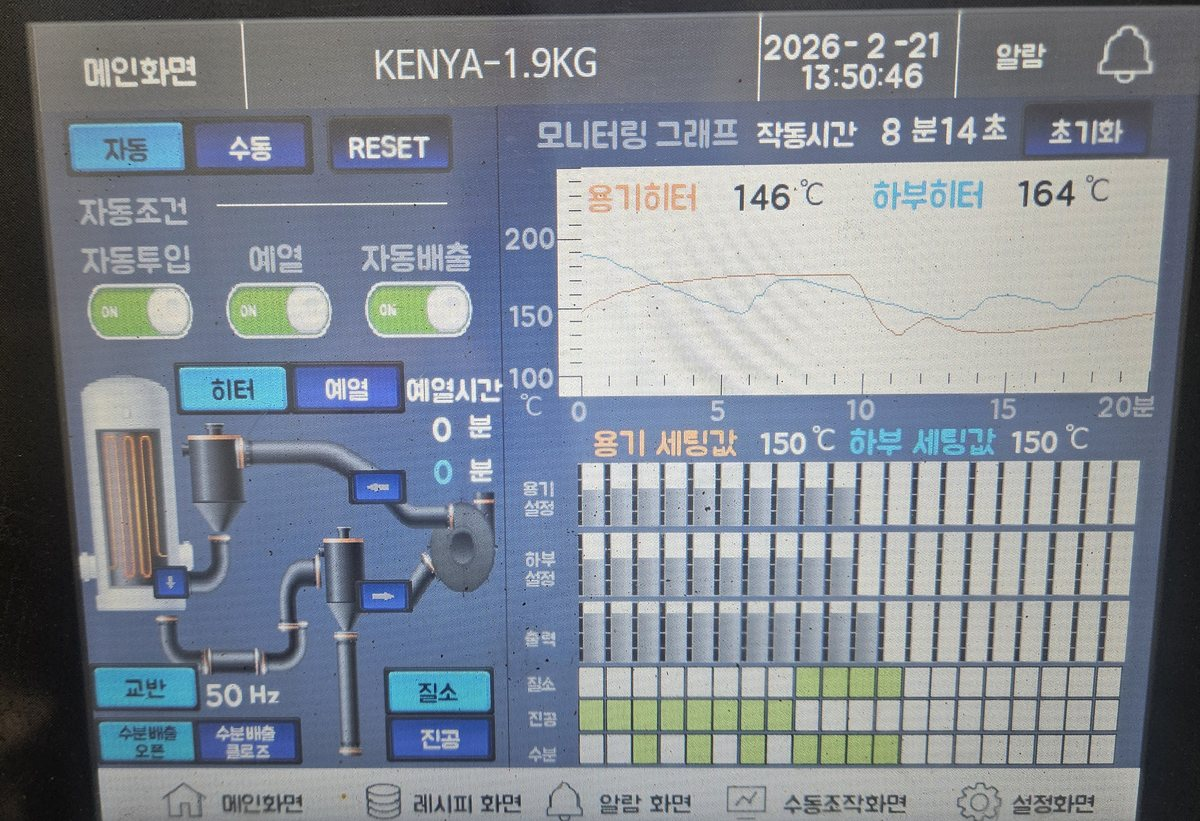
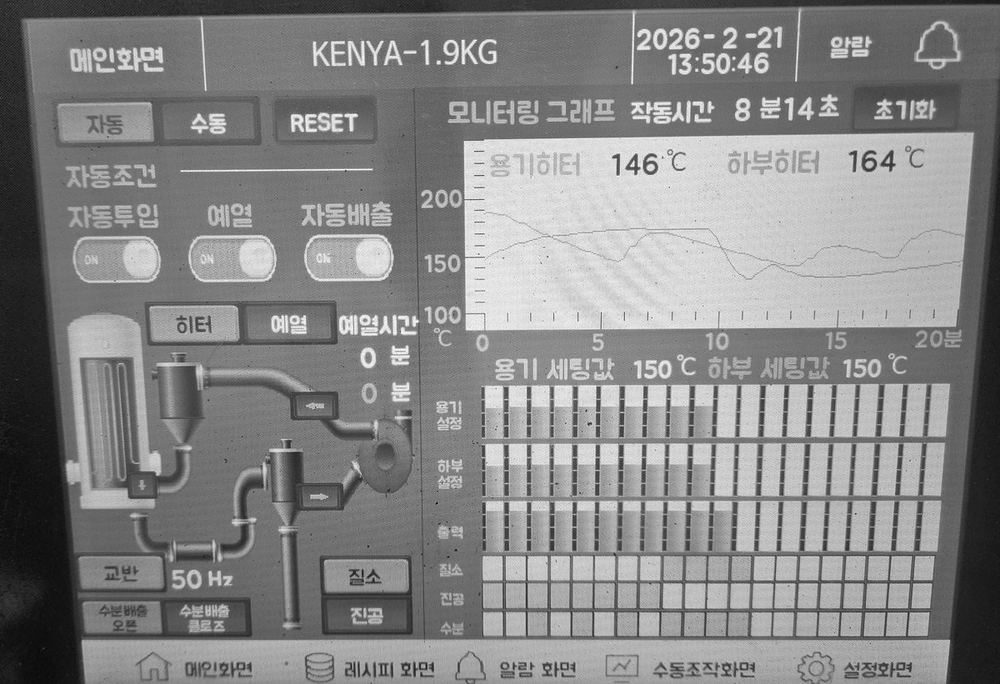
최적화: 웹폰트 축소(한글 본문=OS 폰트)·사진 실제 흑백 변환·lazy/치수 지정·JSON-LD·robots·sitemap

diff --git a/index.html b/index.html
@@ -26,15 +26,43 @@
 <meta property="og:description" content="귀사의 브랜드 이름으로, 특허받은 저온 로스팅 원두를. 200g 무료 샘플을 보내 드립니다.">
 <meta property="og:image" content="assets/beans.jpg">
 <meta property="og:type" content="website">
+<link rel="canonical" href="https://welco-coffee.github.io/">
 <link rel="icon" href="assets/logo.png">
+<link rel="preload" as="image" href="assets/roaster.jpg" fetchpriority="high">
 <link rel="preconnect" href="https://fonts.googleapis.com">
 <link rel="preconnect" href="https://fonts.gstatic.com" crossorigin>
-<link href="https://fonts.googleapis.com/css2?family=IBM+Plex+Mono:wght@400;500;600&family=IBM+Plex+Sans:wght@400;500;600&family=Noto+Sans+KR:wght@300;400;500;700&family=Noto+Serif+KR:wght@400;600;900&display=swap" rel="stylesheet">
+<script type="application/ld+json">
+{
+  "@context": "https://schema.org",
+  "@type": "Organization",
+  "name": "WELCO",
+  "legalName": "주식회사 디올",
+  "url": "https://welco-coffee.github.io/",
+  "logo": "https://welco-coffee.github.io/assets/logo.png",
+  "description": "진공 질소 150℃ 저온 로스팅 원두의 위탁생산(OEM·화이트라벨)과 도매 납품. 경북 고령 자사 로스터리.",
+  "email": "leeseunghun815@gmail.com",
+  "telephone": "+82-70-7700-7891",
+  "address": {
+    "@type": "PostalAddress",
+    "streetAddress": "개진면 치산길 2",
+    "addressLocality": "고령군",
+    "addressRegion": "경상북도",
+    "addressCountry": "KR"
+  },
+  "makesOffer": [
+    {"@type": "Offer", "name": "원두 위탁생산 (OEM·화이트라벨)"},
+    {"@type": "Offer", "name": "케냐 AA 원두 도매 납품"}
+  ]
+}
+</script>
+<!-- 웹폰트는 라틴(Plex)과 제목용 한글 명조(Noto Serif KR 600)만 받는다.
+     한글 본문까지 웹폰트로 받으면 전송량이 1.5MB를 넘어서므로, 본문 한글은 OS 기본 고딕에 맡긴다. -->
+<link href="https://fonts.googleapis.com/css2?family=IBM+Plex+Mono:wght@400;500;600&family=IBM+Plex+Sans:wght@400;500&family=Noto+Serif+KR:wght@600&display=swap" rel="stylesheet">
 <style>
   :root{
     --paper:#f2f0ea; --raised:#fbfaf7; --ink:#15120e; --ink2:#4a453d; --ink3:#7d786f;
     --rule:#d8d3c8; --rule2:#c2bcaf; --sage:#3f7a56;
-    --sans:'IBM Plex Sans','Noto Sans KR','Apple SD Gothic Neo','Malgun Gothic','맑은 고딕',sans-serif;
+    --sans:'IBM Plex Sans','Pretendard','Apple SD Gothic Neo','Malgun Gothic','맑은 고딕',sans-serif;
     --serif:'Noto Serif KR','Apple SD Gothic Neo','Nanum Myeongjo','Malgun Gothic',serif;
     --mono:'IBM Plex Mono','Consolas',monospace;
     --pad:26px;
@@ -99,8 +127,10 @@
   .hero .lede{margin:24px 0 30px;}
   .hero .cta-row{display:flex; gap:10px; flex-wrap:wrap; margin-bottom:44px;}
   .specs{margin-top:auto; border-top:1px solid var(--ink);}
-  .srow{display:grid; grid-template-columns:118px 1fr auto; gap:16px; align-items:baseline;
-        border-bottom:1px solid var(--rule); padding:12px 0;}
+  /* 그리드 자식의 기본 min-width:auto 때문에 좁은 화면에서 칸이 밀려 가로 스크롤이 생긴다 */
+  .hero .L, .hero .R, .specs{min-width:0;}
+  .srow{display:grid; grid-template-columns:minmax(0,118px) minmax(0,1fr) auto; gap:16px;
+        align-items:baseline; border-bottom:1px solid var(--rule); padding:12px 0;}
   .srow .v{font-size:14.5px; color:var(--ink2);}
   .srow .n{font-family:var(--mono); font-size:18px; font-weight:600; letter-spacing:-.01em; white-space:nowrap;}
   .srow .n.sg{color:var(--sage);}
@@ -286,7 +316,8 @@
   </div>
 
   <figure class="R">
-    <img src="assets/roaster.jpg" alt="웰코 진공 질소 저온 로스팅 설비">
+    <img src="assets/roaster.jpg" alt="웰코 진공 질소 저온 로스팅 설비"
+         width="611" height="1047" fetchpriority="high" decoding="async">
     <figcaption><span>Vacuum Nitrogen Roaster</span><span>Goryeong, Korea</span></figcaption>
   </figure>
 </div>
@@ -407,7 +438,8 @@
 
     <div class="two">
       <figure class="shot">
-        <img src="assets/hmi.jpg" alt="로스팅 제어 화면 — 케냐 1.9kg 배치, 설정 온도 150℃">
+        <img src="assets/hmi.jpg" alt="로스팅 제어 화면 — 케냐 1.9kg 배치, 설정 온도 150℃"
+             width="1000" height="684" loading="lazy" decoding="async">
         <figcaption>실제 생산 제어 화면 · 케냐 1.9kg 배치 · 용기/하부 설정값 150℃ · 질소·진공 공정 순차 투입</figcaption>
       </figure>
       <div>
@@ -456,7 +488,8 @@
 
     <div class="two narrow-l" style="margin-top:44px;">
       <figure class="shot">
-        <img src="assets/patent.jpg" alt="특허증 제10-2004953호">
+        <img src="assets/patent.jpg" alt="특허증 제10-2004953호"
+             width="760" height="974" loading="lazy" decoding="async">
         <figcaption>특허증 · 주식회사 디올</figcaption>
       </figure>
       <div style="padding-top:6px;">
@@ -515,7 +548,8 @@
       </div>
 
       <figure class="shot">
-        <img src="assets/package.jpg" alt="WELCO 케냐 AA 200g 파우치">
+        <img src="assets/package.jpg" alt="WELCO 케냐 AA 200g 파우치"
+             width="820" height="1093" loading="lazy" decoding="async">
         <figcaption>웰코 케냐 AA 200g 완제품<br>위탁생산에서는 이 자리에 귀사 라벨이 들어갑니다</figcaption>
       </figure>
     </div>
